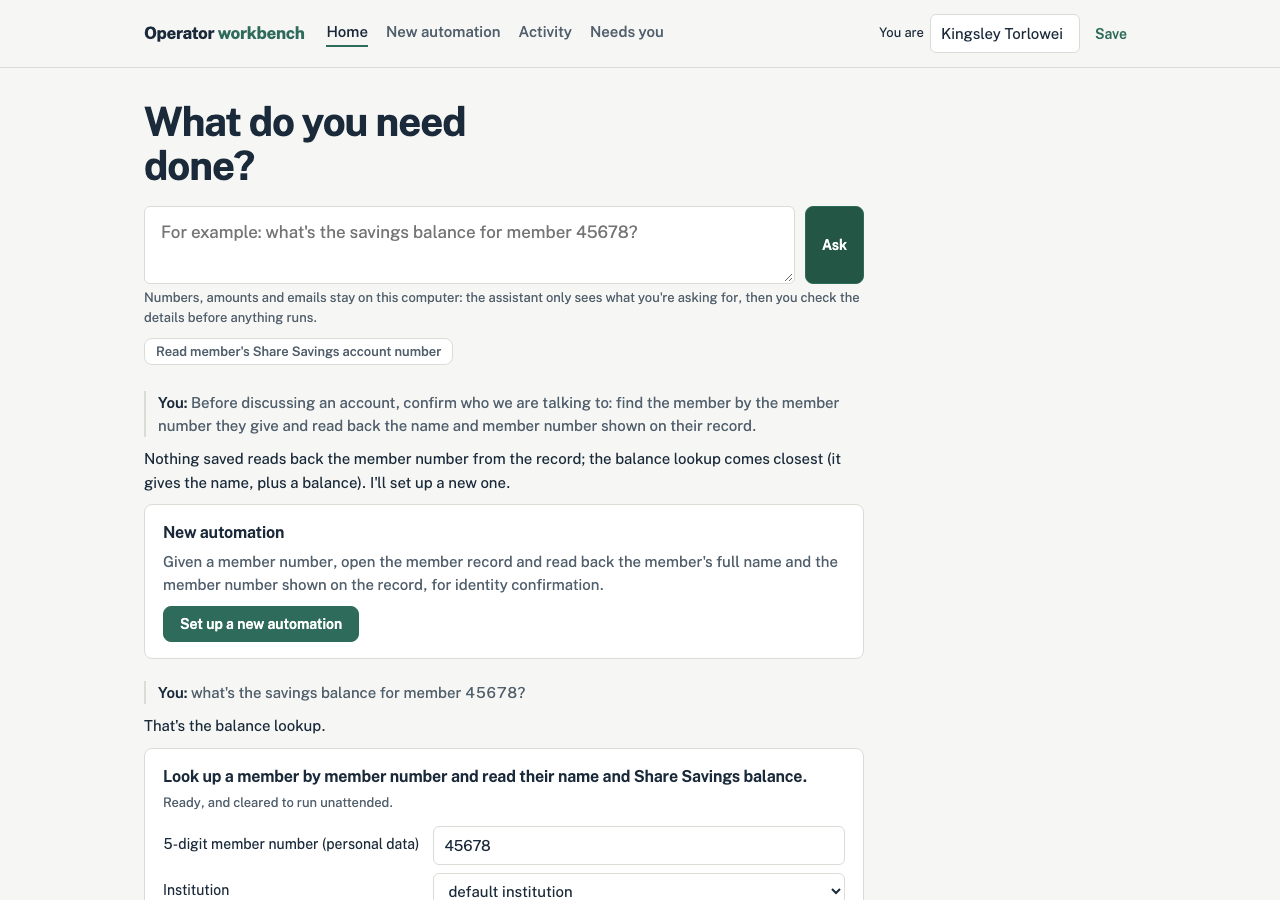
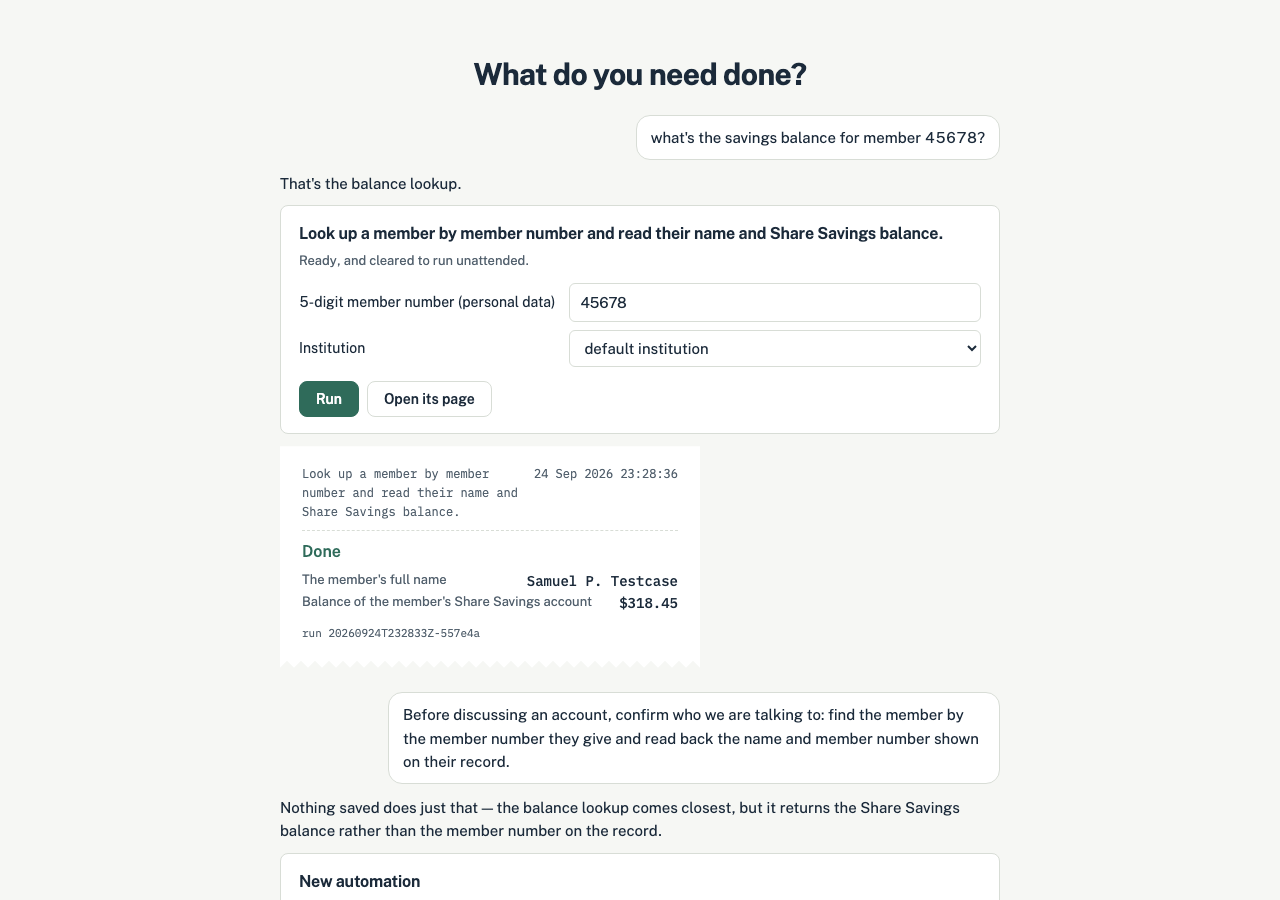
Trim the workbench to the essentials: a chat you press Enter in, and only what needs you
The top bar keeps three things: the wordmark (home), "Needs you" only while something is
waiting, and your initials, whose menu holds your name and recent runs. Home, New
automation, Activity and the name form are gone from it; a new automation starts from the
chat, or from a small link under it.

The home works like a chat: one rounded composer that grows with the text, a small send
arrow inside it, Enter to send and Shift+Enter for a new line; the conversation reads top to
bottom with the composer under the latest message, and suggestions show only before the
first one. Saved automations are one line each with one action.

The chat's replies name automations by what they do: ids are kept out by the prompt and
removed if one slips through. Tour screenshots re-taken.

diff --git a/src/cua/operator/static/workbench.css b/src/cua/operator/static/workbench.css
@@ -40,27 +40,36 @@ p { margin: 0 0 10px; }
 .soft { color: var(--ink-soft); }
 .small { font-size: 13px; }
 
-/* top bar: a quiet ledger header, not a dark slab */
+/* top bar: the name of the place, and only what needs you */
 .topbar { border-bottom: 1px solid var(--rule); background: var(--paper); }
-.topbar-inner { max-width: 1040px; margin: 0 auto; padding: 14px 24px; display: flex;
-                align-items: center; gap: 22px; }
+.topbar-inner { max-width: 1040px; margin: 0 auto; padding: 12px 24px; display: flex;
+                align-items: center; justify-content: space-between; gap: 16px; }
 .wordmark { font-weight: 750; font-size: 17px; color: var(--ink); text-decoration: none;
             letter-spacing: -0.02em; white-space: nowrap; }
 .wordmark span { color: var(--green); }
-.topbar nav { display: flex; gap: 18px; }
-.topbar nav a { color: var(--ink-soft); text-decoration: none; font-weight: 500; white-space: nowrap; }
-.topbar nav a:hover, .topbar nav a.active { color: var(--ink); }
-.topbar nav a.active { box-shadow: inset 0 -2px 0 var(--green); padding-bottom: 3px; }
+.bar-right { display: flex; align-items: center; gap: 14px; }
+.needs { color: var(--amber); font-weight: 600; font-size: 14px; text-decoration: none;
+         white-space: nowrap; }
+.needs::before { content: ""; display: inline-block; width: 8px; height: 8px; border-radius: 50%;
+                 background: var(--amber); margin-right: 7px; vertical-align: 1px; }
 .count { display: inline-block; min-width: 20px; padding: 0 6px; margin-left: 4px;
          border-radius: 10px; background: var(--amber); color: #fff; font-size: 12px;
          text-align: center; font-weight: 600; }
-.busy { color: var(--ink-soft); font-size: 13px; max-width: 200px; white-space: nowrap;
-        overflow: hidden; text-overflow: ellipsis; }
-.busy::before { content: ""; display: inline-block; width: 7px; height: 7px; border-radius: 50%;
-                background: var(--amber); margin-right: 7px; vertical-align: 1px; }
-.who { margin-left: auto; display: flex; gap: 6px; align-items: center; font-size: 13px;
-       white-space: nowrap; }
-.who input { width: 150px; padding: 5px 8px; }
+.account { position: relative; }
+.account summary { list-style: none; cursor: pointer; font-size: 14px; color: var(--ink-soft);
+                   font-weight: 500; }
+.account summary::-webkit-details-marker { display: none; }
+.initials { display: inline-flex; width: 32px; height: 32px; border-radius: 50%; align-items: center;
+            justify-content: center; background: var(--green-tint); color: var(--green);
+            font-weight: 650; font-size: 13px; }
+.account .menu { position: absolute; right: 0; top: calc(100% + 8px); width: 260px; z-index: 10;
+                 background: var(--surface); border: 1px solid var(--rule); border-radius: var(--radius);
+                 padding: 14px; box-shadow: 0 8px 24px -12px rgba(27, 42, 58, .35); }
+.account .menu label { display: block; font-weight: 600; font-size: 13px; margin-bottom: 6px; }
+.account .menu input { width: 100%; }
+.account .menu p { margin: 6px 0 10px; }
+.account .menu a { display: block; padding: 8px 0 0; margin-top: 8px; border-top: 1px solid var(--rule);
+                   text-decoration: none; }
 
 main { max-width: 1040px; margin: 0 auto; padding: 32px 24px 64px; }
 .column { max-width: 720px; }
@@ -115,19 +124,35 @@ label.field { display: block; font-weight: 600; margin: 14px 0 6px; }
 .ledger .num { color: var(--ink-soft); width: 34px; }
 .ledger td.act { text-align: right; white-space: nowrap; }
 
-/* the home: the question is the page's type */
-.ask h1 { font-size: 40px; line-height: 1.1; letter-spacing: -0.025em; font-weight: 700;
-          margin-bottom: 18px; max-width: 16ch; }
-.ask > form { display: flex; gap: 10px; }
-.ask > form textarea { flex: 1; resize: vertical; min-height: 56px; font-size: 17px; padding: 14px 16px; }
-.ask .examples { margin-top: 10px; display: flex; gap: 8px; flex-wrap: wrap; }
-.ask .examples button { font-weight: 500; font-size: 13px; padding: 6px 11px; color: var(--ink-soft); }
+/* the home: one question and a place to answer it, like a chat */
+.chat { max-width: 720px; margin: 24px auto 0; }
+.chat h1 { font-size: 30px; line-height: 1.15; letter-spacing: -0.02em; font-weight: 700;
+           text-align: center; margin-bottom: 22px; }
+.composer { display: flex; align-items: flex-end; gap: 8px; background: var(--surface);
+            border: 1px solid var(--rule); border-radius: 16px; padding: 10px 10px 10px 16px;
+            box-shadow: 0 1px 2px rgba(27, 42, 58, .05); }
+.composer:focus-within { border-color: var(--green); box-shadow: 0 0 0 3px var(--green-tint); }
+.composer textarea { flex: 1; border: 0; padding: 6px 0; resize: none; font-size: 16px;
+                     line-height: 1.45; max-height: 200px; background: transparent; }
+.composer textarea:focus { box-shadow: none; }
+.send { width: 34px; height: 34px; padding: 0; border-radius: 50%; border: 0; flex: none;
+        background: var(--green); color: #fff; display: inline-flex; align-items: center;
+        justify-content: center; }
+.send:disabled { background: var(--rule); color: var(--ink-soft); opacity: 1; }
+.composer-hint { font-size: 12px; color: var(--ink-soft); margin: 8px 4px 0; }
+.suggestions { margin-top: 14px; display: flex; gap: 8px; flex-wrap: wrap; justify-content: center; }
+.suggestions button { font-weight: 500; font-size: 13px; padding: 7px 12px; color: var(--ink-soft);
+                      border-radius: 16px; }
 
-.transcript { margin-top: 26px; }
-.exchange { margin: 0 0 22px; }
-.said { color: var(--ink-soft); padding-left: 12px; border-left: 2px solid var(--rule); margin-bottom: 10px; }
-.said b { color: var(--ink); font-weight: 600; }
+.transcript:not(:empty) { margin-bottom: 18px; }
+.exchange { margin: 0 0 24px; }
+.said { background: var(--surface); border: 1px solid var(--rule); border-radius: 14px;
+        padding: 10px 14px; margin: 0 0 12px auto; width: fit-content; max-width: 85%; }
 .reply { margin-bottom: 10px; }
+
+.saved { max-width: 720px; margin: 56px auto 0; }
+.saved h2 { margin-top: 0; }
+details.env summary { cursor: pointer; font-size: 13px; color: var(--ink-soft); margin: 14px 0 6px; }
 
 .runcard { background: var(--surface); border: 1px solid var(--rule); border-radius: var(--radius);
            padding: 16px 18px; }
@@ -179,9 +204,7 @@ pre.progress { background: var(--surface); border: 1px solid var(--rule); border
 
 @media (max-width: 720px) {
   .topbar-inner { flex-wrap: wrap; gap: 12px; }
-  .who { margin-left: 0; }
-  .ask h1 { font-size: 30px; }
-  .ask > form { flex-direction: column; }
+  .chat h1 { font-size: 24px; }
   .runcard .fields { grid-template-columns: 1fr; }
   .ledger th:nth-child(3), .ledger td:nth-child(3) { display: none; }
 }

diff --git a/src/cua/operator/templates/home.html b/src/cua/operator/templates/home.html
@@ -1,41 +1,38 @@
-{% extends "_layout.html" %}{% set active = "home" %}
+{% extends "_layout.html" %}
 {% block body %}
-<section class="ask column">
+<section class="chat">
   <h1>What do you need done?</h1>
-  <form id="ask">
-    <textarea name="message" id="message" rows="2" aria-label="What do you need done?"
-      placeholder="For example: what's the savings balance for member 45678?"></textarea>
-    <button class="primary">Ask</button>
-  </form>
-  <p class="hint">{% if llm_ready %}Numbers, amounts and emails stay on this computer: the
-    assistant only sees what you're asking for, then you check the details before anything runs.
-    {% else %}No assistant is configured, so requests are matched to saved automations by their
-    words.{% endif %}</p>
-  {% if examples %}<div class="examples">{% for e in examples %}<button type="button" data-example="{{ e }}">{{ e }}</button>{% endfor %}</div>{% endif %}
   <div class="transcript" id="transcript" aria-live="polite"></div>
+  <form id="ask" class="composer">
+    <textarea name="message" id="message" rows="1" aria-label="What do you need done?"
+      placeholder="Ask for something, like the savings balance for member 45678"></textarea>
+    <button class="send" aria-label="Send" disabled>
+      <svg viewBox="0 0 16 16" width="16" height="16" aria-hidden="true"><path d="M8 13V3M3.5 7.5 8 3l4.5 4.5" fill="none" stroke="currentColor" stroke-width="1.8" stroke-linecap="round" stroke-linejoin="round"/></svg>
+    </button>
+  </form>
+  <p class="composer-hint">Enter to send, Shift+Enter for a new line.{% if llm_ready %} Member numbers and amounts stay on this computer.{% else %} No assistant is configured, so requests are matched to saved automations by their words.{% endif %}</p>
+  {% if examples %}<div class="suggestions" id="suggestions">{% for e in examples %}<button type="button" data-example="{{ e }}">{{ e }}</button>{% endfor %}</div>{% endif %}
 </section>
 
-<h2 id="saved">Saved automations</h2>
-{% include "_notes.html" %}
-<table class="ledger">
-  <thead><tr><th>Automation</th><th>Status</th><th>Gives back</th><th></th></tr></thead>
-  <tbody>
-  {% for r in rows %}
-  <tr>
-    <td><a class="title" href="/automations/{{ r.id }}/{{ r.latest.version }}">{{ r.title }}</a>
-        {% if r.tenants %}<div class="small soft">also at {{ r.tenants | join(", ") }}</div>{% endif %}</td>
-    <td>{% if r.approved %}{% if r.cleared %}<span class="status ok">Ready, runs unattended</span>{% else %}<span class="status plain">Ready, with a person</span>{% endif %}{% endif %}
-        {% if r.review == "ready for review" %}<span class="status warn">Waiting for review</span>
-        {% elif r.review == "rejected" %}<span class="status bad">Rejected</span>
-        {% elif r.review %}<span class="status bad">Check failed</span>{% endif %}</td>
-    <td class="small soft">{{ r.returns }}</td>
-    <td class="act">{% if r.review == "ready for review" %}<a class="button" href="/automations/{{ r.id }}/{{ r.latest.version }}">Review</a>{% endif %}
-        {% if r.approved %}<a class="button" href="/run/{{ r.id }}">Run</a>{% endif %}</td>
-  </tr>
-  {% else %}
-  <tr><td colspan="4" class="soft">Nothing saved yet. Ask for something above, or start a <a href="/new">new automation</a>.</td></tr>
-  {% endfor %}
-  </tbody>
-</table>
+<section class="saved" id="saved">
+  <h2>Saved automations</h2>
+  <table class="ledger">
+    {% for r in rows %}
+    <tr>
+      <td><a class="title" href="/automations/{{ r.id }}/{{ r.latest.version }}">{{ r.title }}</a></td>
+      <td>{% if r.review == "ready for review" %}<span class="status warn">Waiting for review</span>
+          {% elif r.review == "rejected" %}<span class="status bad">Rejected</span>
+          {% elif r.review %}<span class="status bad">Check failed</span>
+          {% elif r.cleared %}<span class="status ok">Ready</span>{% else %}<span class="status plain">Ready, with a person</span>{% endif %}</td>
+      <td class="act">{% if r.review == "ready for review" %}<a class="button" href="/automations/{{ r.id }}/{{ r.latest.version }}">Review</a>
+          {% elif r.approved %}<a class="button" href="/run/{{ r.id }}">Run</a>{% endif %}</td>
+    </tr>
+    {% else %}
+    <tr><td class="soft">Nothing saved yet. Ask for something above.</td></tr>
+    {% endfor %}
+  </table>
+  {% include "_notes_inline.html" %}
+  <p class="small soft">Prefer a form? <a href="/new">Describe a new automation</a>.</p>
+</section>
 <script src="/static/chat.js"></script>
 {% endblock %}

diff --git a/src/cua/operator/static/chat.js b/src/cua/operator/static/chat.js
@@ -4,7 +4,17 @@
 (() => {
   const form = document.getElementById("ask");
   const box = document.getElementById("message");
+  const send = form.querySelector(".send");
   const transcript = document.getElementById("transcript");
+  const suggestions = document.getElementById("suggestions");
+
+  // the box grows with what's typed; the arrow only works when there is something to send
+  const fit = () => {
+    box.style.height = "auto";
+    box.style.height = `${Math.min(box.scrollHeight, 200)}px`;
+    send.disabled = !box.value.trim();
+  };
+  const keepInView = () => form.scrollIntoView({ block: "nearest", behavior: "smooth" });
 
   const el = (tag, attrs = {}, ...children) => {
     const node = document.createElement(tag);
@@ -55,7 +65,7 @@
       }
       if (job.status === "running") continue;
       (told ? where.querySelector(".note") : status)?.remove();
-      if (job.result) where.append(receipt(title, job.result));
+      if (job.result) { where.append(receipt(title, job.result)); keepInView(); }
       else where.append(el("div", { class: "note error", text: job.error || "It didn't finish." }));
       return;
     }
@@ -125,22 +135,26 @@
     const message = box.value.trim();
     if (!message) return;
     box.value = "";
-    const exchange = el("div", { class: "exchange" },
-      el("div", { class: "said" }, el("b", { text: "You: " }), message));
+    fit();
+    suggestions?.remove();
+    const exchange = el("div", { class: "exchange" }, el("div", { class: "said", text: message }));
     const thinking = working("Looking…");
     exchange.append(thinking);
-    transcript.prepend(exchange);
+    transcript.append(exchange);
+    keepInView();
     const { ok, body } = await post("/api/chat", { message });
     thinking.remove();
     if (!ok) { exchange.append(el("div", { class: "note error", text: "That didn't work; try again." })); return; }
     if (body.reply) exchange.append(el("p", { class: "reply", text: body.reply }));
     if (body.card?.type === "run") runCard(body.card, exchange);
     if (body.card?.type === "create") createCard(body.card, exchange);
+    keepInView();
   });
 
+  box.addEventListener("input", fit);
   box.addEventListener("keydown", (event) => {
     if (event.key === "Enter" && !event.shiftKey) { event.preventDefault(); form.requestSubmit(); }
   });
   for (const example of document.querySelectorAll("[data-example]"))
-    example.addEventListener("click", () => { box.value = example.dataset.example; box.focus(); });
+    example.addEventListener("click", () => { box.value = example.dataset.example; fit(); box.focus(); });
 })();

diff --git a/src/cua/operator/templates/_nav.html b/src/cua/operator/templates/_nav.html
@@ -1,16 +1,21 @@
+{% set initials = (operator.split() | map("first") | join("") | upper)[:2] if operator else "" %}
 <header class="topbar"><div class="topbar-inner">
   <a class="wordmark" href="/">Operator <span>workbench</span></a>
-  <nav>
-    <a href="/" class="{{ 'active' if active == 'home' }}">Home</a>
-    <a href="/new" class="{{ 'active' if active == 'new' }}">New automation</a>
-    <a href="/jobs" class="{{ 'active' if active == 'jobs' }}">Activity</a>
-    <a href="/needs-you" class="{{ 'active' if active == 'needs-you' }}">Needs you{% if pending %}<span class="count">{{ pending }}</span>{% endif %}</a>
-  </nav>
-  {% if current_job %}<a class="busy" href="/jobs/{{ current_job.id }}" title="{{ current_job.title }}">Running: {{ current_job.title }}</a>{% endif %}
-  <form class="who" method="post" action="/operator">
-    <label for="opname">You are</label>
-    <input type="text" id="opname" name="name" value="{{ operator }}" placeholder="your name" autocomplete="name">
-    <button class="quiet">Save</button>
-  </form>
+  <div class="bar-right">
+    {% if pending %}<a class="needs" href="/needs-you">Needs you <span class="count">{{ pending }}</span></a>{% endif %}
+    <details class="account">
+      <summary aria-label="Your name and recent runs">{% if initials %}<span class="initials">{{ initials }}</span>{% else %}Set your name{% endif %}</summary>
+      <div class="menu">
+        <form method="post" action="/operator">
+          <label for="opname">Your name</label>
+          <input type="text" id="opname" name="name" value="{{ operator }}" autocomplete="name">
+          <p class="small soft">Used when you approve, reject or hand back.</p>
+          <button class="primary">Save</button>
+        </form>
+        <a href="/jobs">Recent runs</a>
+        <a href="/needs-you">Needs you</a>
+      </div>
+    </details>
+  </div>
 </div></header>
 <script>if ({{ operator | tojson }}) localStorage.setItem('operator', {{ operator | tojson }});</script>

diff --git a/src/cua/operator/templates/_notes_inline.html b/src/cua/operator/templates/_notes_inline.html
@@ -1,0 +1,1 @@
+{% if notes %}<details class="env"><summary>About this environment</summary><div class="note env">{{ notes }}</div></details>{% endif %}

diff --git a/src/cua/discovery/router.py b/src/cua/discovery/router.py
@@ -57,7 +57,7 @@ def to_route(raw: Mapping[str, Any], automations: Sequence[Mapping[str, Any]],
     that are placeholders or words from the message; put the real values back."""
     known = {a["id"]: a for a in automations}
     action = raw.get("action") if raw.get("action") in ("run", "create", "reply") else "reply"
-    reply = str(raw.get("reply") or "").strip()
+    reply = _without_ids(str(raw.get("reply") or "").strip(), known)
     if action == "run" and raw.get("automation") not in known:
         action, reply = "reply", reply or "I couldn't match that to a saved automation."
     if action != "run":
@@ -76,6 +76,14 @@ def to_route(raw: Mapping[str, Any], automations: Sequence[Mapping[str, Any]],
         elif not _PLACEHOLDER.search(value) and value.lower() in redacted.lower():
             inputs[name] = value  # e.g. a product named in the message
     return Route(action="run", reply=reply, automation=automation["id"], inputs=inputs)
+
+
+def _without_ids(reply: str, known: Mapping[str, Any]) -> str:
+    """Staff read titles, not identifiers: drop any automation id the model mentioned
+    (with the brackets, quotes or parentheses around it)."""
+    for automation_id in known:
+        reply = re.sub(rf"\s*\(?[«`'\"]*{re.escape(automation_id)}[»`'\"]*\)?", "", reply)
+    return reply.strip()
 
 
 SCHEMA: dict[str, Any] = {
@@ -108,7 +116,8 @@ what the new automation should do, in plain words, without any values or placeho
 Answer briefly; if they ask what you can do, name the saved automations.
 Keep reply short and plain. For "run", nothing has run yet: the person checks the details \
 and presses Run, so say what you found (e.g. "That's the balance lookup."), not that it is \
-running. Never invent values."""
+running. In reply, name automations by what they do, never by their id. Never invent \
+values."""
 
 
 class ClaudeRouter:

diff --git a/scripts/workbench_tour.py b/scripts/workbench_tour.py
@@ -44,7 +44,7 @@ def main() -> int:
 
     def ask(page: Page, message: str) -> None:
         page.fill("#message", message)
-        page.click("#ask button.primary")
+        page.press("#message", "Enter")
         page.wait_for_function(
             "document.querySelector('.exchange') && !document.querySelector('.exchange .working')",
             timeout=120_000)
@@ -53,8 +53,9 @@ def main() -> int:
         browser = p.chromium.launch()
         page = browser.new_page(viewport={"width": 1280, "height": 900})
         page.goto(url + "/")
+        page.click(".account summary")
         page.fill("#opname", OPERATOR)
-        page.click("form.who button")
+        page.click(".account .menu button")
         shot(page, "01-home")
 
         print("1. ask for something a saved automation does, and run it from the chat")

diff --git a/tests/test_workbench.py b/tests/test_workbench.py
@@ -401,6 +401,9 @@ def test_a_route_keeps_only_what_can_be_trusted() -> None:
     unknown = to_route({"action": "run", "automation": "corebank.nope", "reply": ""},
                        [summary()], redacted, values)
     assert unknown.action == "reply"
+    named = to_route({"action": "create", "reply": f"The lookup («{LOOKUP.id}») comes closest.",
+                      "request": "Read a member's certificate"}, [summary()], redacted, values)
+    assert named.reply == "The lookup comes closest."  # staff read titles, not ids
 
 
 def test_matching_by_words_without_the_assistant() -> None:
